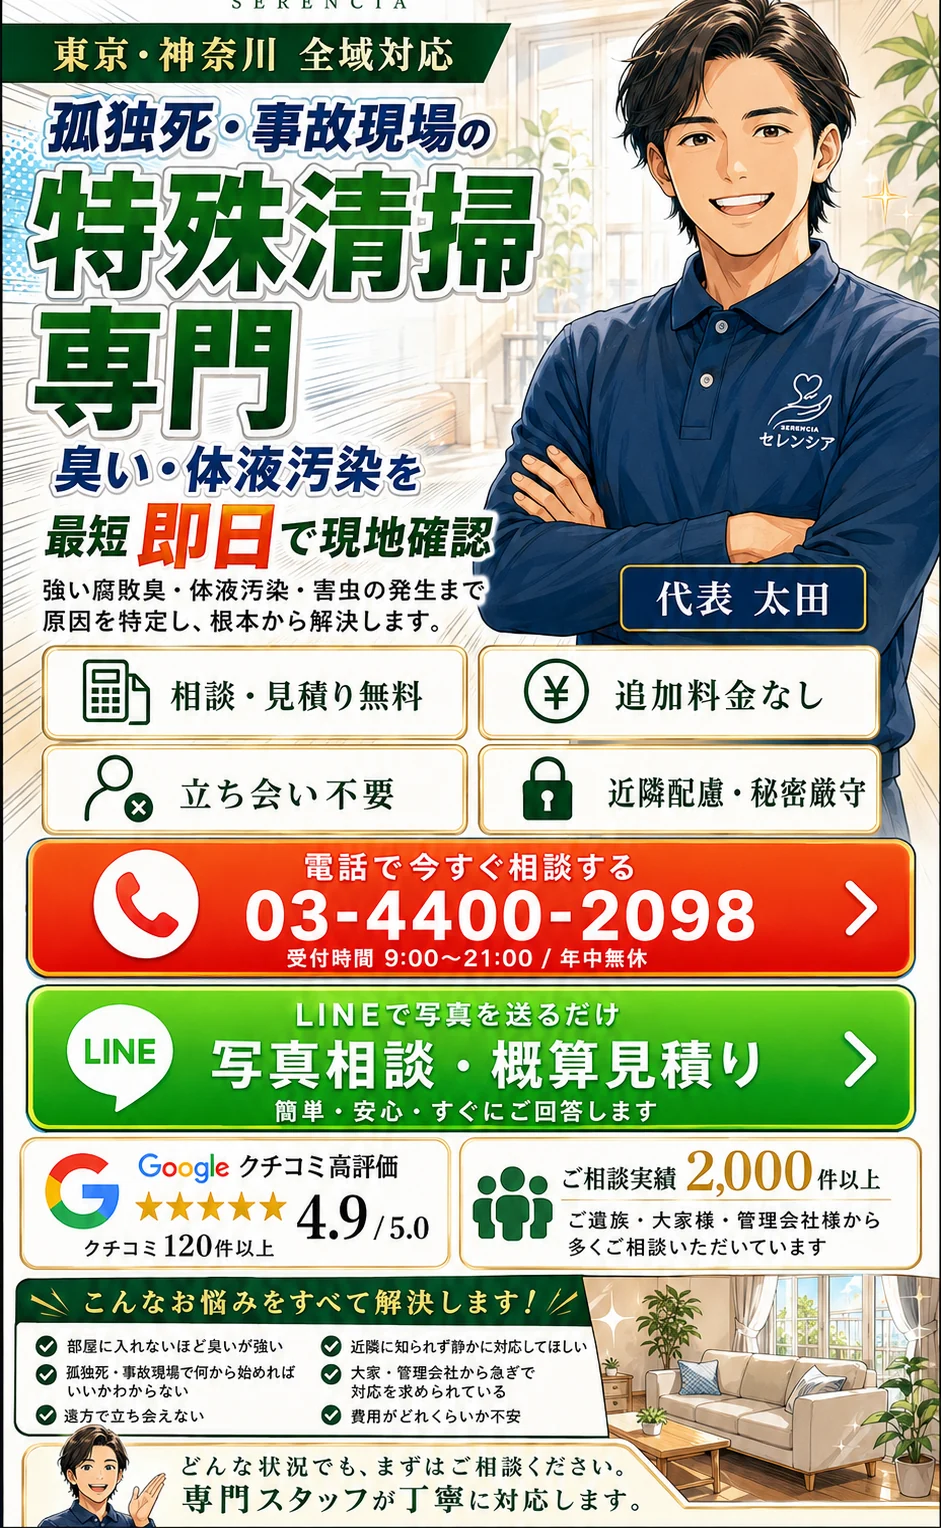
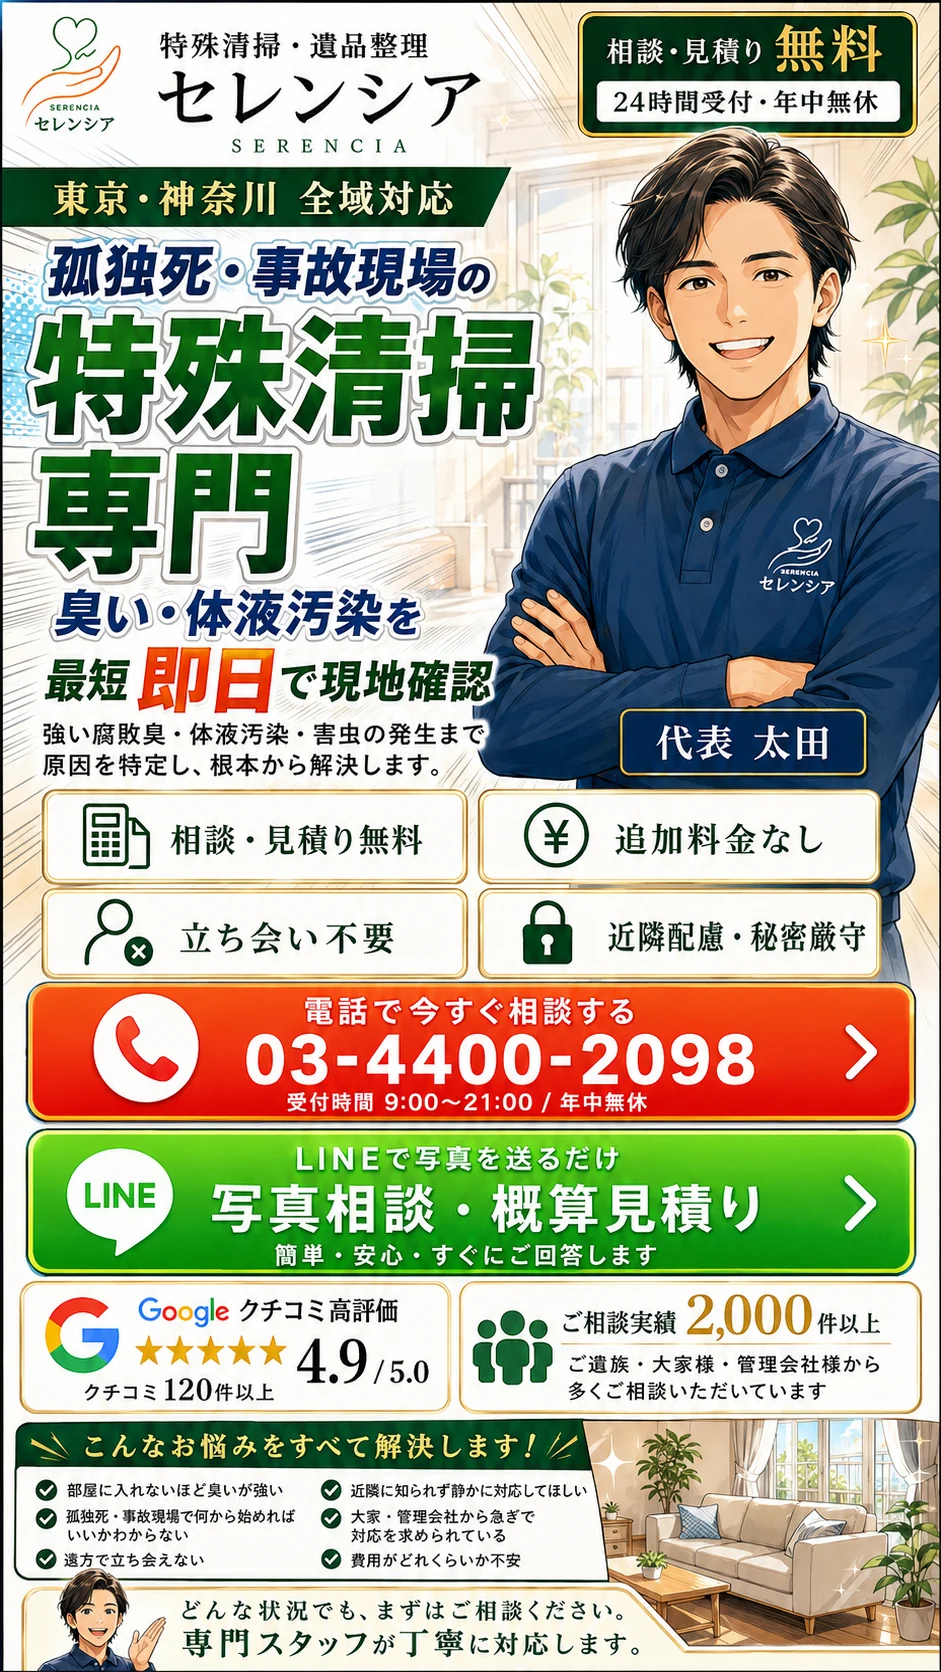
fix(fv): show full KV incl. its own header; hide sticky header at top; blend seam
- Use the entire KV (941x1672) so its own header (logo + 無料 badge) shows; the
  bottom worry summary + band were already restored. Recompute phone/LINE
  hotspots for the full image (verified aligned within ~1px).
- McyHeader becomes a hide-at-top / slide-in-on-scroll fixed bar (client) so the
  KV's own header serves at the top with no duplicate nav; the sticky nav + CTAs
  return once the user scrolls past the hero.
- Kill the KV->manga seam: warm-cream section bg on the FV + a taller
  cream->transparent blend and an opaque-white veil top on the worries section,
  bridging the warm KV into the cool section.

diff --git a/components/mcy/McyHeader.tsx b/components/mcy/McyHeader.tsx
@@ -1,7 +1,13 @@
+"use client";
+
+import { useEffect, useState } from "react";
+
 /**
  * まーしー式 No.33 ターコイズ不動産土地活用フォト — header.
- * White glass ground / navy brand / glossy turquoise & LINE-green CTAs / gold accents.
- * All text is live HTML per the skill rules (no baked button imagery).
+ * The KV (McyFv) carries its own header, so this bar stays hidden at the very
+ * top and slides in only after the user scrolls into the content, giving a
+ * persistent nav + CTA without duplicating the KV's header.
+ * White glass ground / navy brand / glossy turquoise & LINE-green CTAs.
  */
 
 export const PHONE_TEL = "tel:0344002098";
@@ -9,100 +15,118 @@ export const PHONE_DISPLAY = "03-4400-2098";
 export const LINE_URL = "https://page.line.me/782qjphg";
 
 export default function McyHeader() {
-  return (
-    <header className="sticky top-0 z-40 w-full bg-white/85 shadow-[0_2px_14px_rgba(18,58,92,0.12)] backdrop-blur-md">
-      <div className="flex items-center justify-between gap-[clamp(4px,1.2vw,8px)] px-[clamp(6px,1.8vw,12px)] py-[7px]">
-        {/* brand */}
-        <a href="/" aria-label="セレンシア" className="min-w-0 shrink leading-none">
-          <span className="block whitespace-nowrap text-[clamp(7px,1.9vw,9px)] font-bold tracking-[0.18em] text-mcy-turq-deep">
-            特殊清掃・遺品整理
-          </span>
-          <span className="mt-[3px] block whitespace-nowrap font-display text-[clamp(15px,4.2vw,21px)] font-bold tracking-[0.14em] text-mcy-navy">
-            セレンシア
-          </span>
-          <span
-            aria-hidden
-            className="mt-[3px] block h-[2px] w-[min(100%,76px)] rounded-full bg-gradient-to-r from-mcy-turq-bright via-mcy-turq to-mcy-gold"
-          />
-        </a>
+  const [shown, setShown] = useState(false);
 
-        {/* 無料 badge with gold laurel */}
-        <div className="flex shrink-0 items-center gap-[2px] leading-none">
-          <svg viewBox="0 0 30 60" className="h-[clamp(26px,6.6vw,38px)] w-auto drop-shadow-[0_1px_1px_rgba(165,129,58,0.35)]" fill="#c9a24f" aria-hidden="true">
-            <path d="M22 58C11 51 7 39 10 27 7 39 12 51 22 58Z" />
-            <path d="M10 43c3.6-.9 6.4.6 7.8 3.7-3.6.9-6.5-.4-7.8-3.7ZM9.6 34.5c3.4-.5 6.1 1.4 7 4.6-3.4.2-6.1-1.5-7-4.6ZM10.6 26c3 0 5.5 2 6.1 5.1-3-.2-5.4-2-6.1-5.1ZM12.5 18.5c2.7.7 4.5 2.8 4.5 5.8-2.7-.8-4.3-2.9-4.5-5.8ZM15.8 12c2.2 1.2 3.2 3.4 2.7 6.3-2.2-1.4-3-3.6-2.7-6.3Z" />
-          </svg>
-          <p className="text-center leading-none">
-            <span className="block text-[clamp(6px,1.5vw,8.5px)] font-bold text-mcy-navy">
-              相談・見積り
+  useEffect(() => {
+    const onScroll = () => setShown(window.scrollY > 200);
+    onScroll();
+    window.addEventListener("scroll", onScroll, { passive: true });
+    return () => window.removeEventListener("scroll", onScroll);
+  }, []);
+
+  return (
+    <header
+      aria-hidden={!shown}
+      className={`fixed inset-x-0 top-0 z-40 transition-transform duration-300 ease-out ${
+        shown ? "translate-y-0" : "pointer-events-none -translate-y-full"
+      }`}
+    >
+      <div className="mx-auto max-w-[520px] bg-white/90 shadow-[0_2px_14px_rgba(18,58,92,0.12)] backdrop-blur-md">
+        <div className="flex items-center justify-between gap-[clamp(4px,1.2vw,8px)] px-[clamp(6px,1.8vw,12px)] py-[7px]">
+          {/* brand */}
+          <a href="/" aria-label="セレンシア" className="min-w-0 shrink leading-none">
+            <span className="block whitespace-nowrap text-[clamp(7px,1.9vw,9px)] font-bold tracking-[0.18em] text-mcy-turq-deep">
+              特殊清掃・遺品整理
             </span>
-            <span className="my-[1px] block bg-gradient-to-b from-mcy-turq-bright to-mcy-turq-deep bg-clip-text text-[clamp(13px,3.4vw,20px)] font-black leading-none text-transparent">
-              無料
+            <span className="mt-[3px] block whitespace-nowrap font-display text-[clamp(15px,4.2vw,21px)] font-bold tracking-[0.14em] text-mcy-navy">
+              セレンシア
             </span>
-            <span className="block text-[clamp(5px,1.25vw,7.5px)] font-bold text-mcy-navy/80">
-              電話9〜21時／LINEは24時間
+            <span
+              aria-hidden
+              className="mt-[3px] block h-[2px] w-[min(100%,76px)] rounded-full bg-gradient-to-r from-mcy-turq-bright via-mcy-turq to-mcy-gold"
+            />
+          </a>
+
+          {/* 無料 badge with gold laurel */}
+          <div className="flex shrink-0 items-center gap-[2px] leading-none">
+            <svg viewBox="0 0 30 60" className="h-[clamp(26px,6.6vw,38px)] w-auto drop-shadow-[0_1px_1px_rgba(165,129,58,0.35)]" fill="#c9a24f" aria-hidden="true">
+              <path d="M22 58C11 51 7 39 10 27 7 39 12 51 22 58Z" />
+              <path d="M10 43c3.6-.9 6.4.6 7.8 3.7-3.6.9-6.5-.4-7.8-3.7ZM9.6 34.5c3.4-.5 6.1 1.4 7 4.6-3.4.2-6.1-1.5-7-4.6ZM10.6 26c3 0 5.5 2 6.1 5.1-3-.2-5.4-2-6.1-5.1ZM12.5 18.5c2.7.7 4.5 2.8 4.5 5.8-2.7-.8-4.3-2.9-4.5-5.8ZM15.8 12c2.2 1.2 3.2 3.4 2.7 6.3-2.2-1.4-3-3.6-2.7-6.3Z" />
+            </svg>
+            <p className="text-center leading-none">
+              <span className="block text-[clamp(6px,1.5vw,8.5px)] font-bold text-mcy-navy">
+                相談・見積り
+              </span>
+              <span className="my-[1px] block bg-gradient-to-b from-mcy-turq-bright to-mcy-turq-deep bg-clip-text text-[clamp(13px,3.4vw,20px)] font-black leading-none text-transparent">
+                無料
+              </span>
+              <span className="block text-[clamp(5px,1.25vw,7.5px)] font-bold text-mcy-navy/80">
+                電話9〜21時／LINEは24時間
+              </span>
+            </p>
+            <svg viewBox="0 0 30 60" className="h-[clamp(26px,6.6vw,38px)] w-auto -scale-x-100 drop-shadow-[0_1px_1px_rgba(165,129,58,0.35)]" fill="#c9a24f" aria-hidden="true">
+              <path d="M22 58C11 51 7 39 10 27 7 39 12 51 22 58Z" />
+              <path d="M10 43c3.6-.9 6.4.6 7.8 3.7-3.6.9-6.5-.4-7.8-3.7ZM9.6 34.5c3.4-.5 6.1 1.4 7 4.6-3.4.2-6.1-1.5-7-4.6ZM10.6 26c3 0 5.5 2 6.1 5.1-3-.2-5.4-2-6.1-5.1ZM12.5 18.5c2.7.7 4.5 2.8 4.5 5.8-2.7-.8-4.3-2.9-4.5-5.8ZM15.8 12c2.2 1.2 3.2 3.4 2.7 6.3-2.2-1.4-3-3.6-2.7-6.3Z" />
+            </svg>
+          </div>
+
+          {/* phone — glossy turquoise pill with gold outer hairline */}
+          <a
+            href={PHONE_TEL}
+            tabIndex={shown ? undefined : -1}
+            data-gtm="cta_tel_header"
+            className="relative flex min-h-[42px] shrink-0 flex-col items-center justify-center overflow-hidden rounded-[10px] bg-gradient-to-b from-mcy-turq-bright via-mcy-turq to-mcy-turq-deep px-[clamp(6px,1.7vw,12px)] py-[5px] text-white shadow-[0_0_0_1px_rgba(201,162,79,0.5),0_4px_10px_rgba(11,127,133,0.45)] ring-1 ring-inset ring-white/45 transition-[filter] active:brightness-90"
+          >
+            <span
+              aria-hidden
+              className="pointer-events-none absolute inset-x-[3px] top-[2px] h-[46%] rounded-[8px] bg-gradient-to-b from-white/45 via-white/15 to-white/0"
+            />
+            <span className="relative flex items-center gap-[3px] leading-none drop-shadow-[0_1px_1px_rgba(11,127,133,0.55)]">
+              <svg viewBox="0 0 24 24" className="h-[clamp(10px,2.6vw,14px)] w-[clamp(10px,2.6vw,14px)] shrink-0" fill="currentColor" aria-hidden="true">
+                <path d="M6.62 10.79c1.44 2.83 3.76 5.14 6.59 6.59l2.2-2.2c.27-.27.67-.36 1.02-.24 1.12.37 2.33.57 3.57.57.55 0 1 .45 1 1V20c0 .55-.45 1-1 1-9.39 0-17-7.61-17-17 0-.55.45-1 1-1h3.5c.55 0 1 .45 1 1 0 1.25.2 2.45.57 3.57.11.35.03.74-.25 1.02l-2.2 2.2z" />
+              </svg>
+              <span className="whitespace-nowrap text-[clamp(11px,2.9vw,17px)] font-black tracking-[-0.02em]">
+                {PHONE_DISPLAY}
+              </span>
             </span>
-          </p>
-          <svg viewBox="0 0 30 60" className="h-[clamp(26px,6.6vw,38px)] w-auto -scale-x-100 drop-shadow-[0_1px_1px_rgba(165,129,58,0.35)]" fill="#c9a24f" aria-hidden="true">
-            <path d="M22 58C11 51 7 39 10 27 7 39 12 51 22 58Z" />
-            <path d="M10 43c3.6-.9 6.4.6 7.8 3.7-3.6.9-6.5-.4-7.8-3.7ZM9.6 34.5c3.4-.5 6.1 1.4 7 4.6-3.4.2-6.1-1.5-7-4.6ZM10.6 26c3 0 5.5 2 6.1 5.1-3-.2-5.4-2-6.1-5.1ZM12.5 18.5c2.7.7 4.5 2.8 4.5 5.8-2.7-.8-4.3-2.9-4.5-5.8ZM15.8 12c2.2 1.2 3.2 3.4 2.7 6.3-2.2-1.4-3-3.6-2.7-6.3Z" />
-          </svg>
+            <span className="relative mt-[3px] whitespace-nowrap text-[clamp(5.5px,1.4vw,8px)] font-bold leading-none">
+              受付 9:00〜21:00 / 年中無休
+            </span>
+          </a>
+
+          {/* LINE — glossy green pill with gold outer hairline */}
+          <a
+            href={LINE_URL}
+            target="_blank"
+            rel="noopener noreferrer"
+            tabIndex={shown ? undefined : -1}
+            data-gtm="cta_line_header"
+            className="relative flex min-h-[42px] shrink-0 items-center gap-[clamp(2px,0.9vw,5px)] overflow-hidden rounded-[10px] bg-gradient-to-b from-[#4be06a] via-[#1ecb3a] to-[#06a32a] px-[clamp(4px,1.2vw,9px)] py-[5px] text-white shadow-[0_0_0_1px_rgba(201,162,79,0.5),0_4px_10px_rgba(6,163,42,0.4)] ring-1 ring-inset ring-white/45 transition-[filter] active:brightness-90"
+          >
+            <span
+              aria-hidden
+              className="pointer-events-none absolute inset-x-[3px] top-[2px] h-[46%] rounded-[8px] bg-gradient-to-b from-white/45 via-white/15 to-white/0"
+            />
+            <span className="relative grid h-[clamp(15px,3.9vw,22px)] w-[clamp(15px,3.9vw,22px)] shrink-0 place-items-center rounded-full bg-white text-[clamp(4.5px,1.2vw,6.5px)] font-black text-[#06b32c] shadow-[0_1px_2px_rgba(0,0,0,0.18)]">
+              LINE
+            </span>
+            <span className="relative leading-tight drop-shadow-[0_1px_1px_rgba(6,163,42,0.5)]">
+              <span className="block whitespace-nowrap text-[clamp(7px,1.8vw,10px)] font-bold">
+                LINEで
+              </span>
+              <span className="block whitespace-nowrap text-[clamp(9px,2.4vw,14px)] font-black">
+                写真相談する
+              </span>
+            </span>
+          </a>
         </div>
 
-        {/* phone — glossy turquoise pill with gold outer hairline */}
-        <a
-          href={PHONE_TEL}
-          data-gtm="cta_tel_header"
-          className="relative flex min-h-[42px] shrink-0 flex-col items-center justify-center overflow-hidden rounded-[10px] bg-gradient-to-b from-mcy-turq-bright via-mcy-turq to-mcy-turq-deep px-[clamp(6px,1.7vw,12px)] py-[5px] text-white shadow-[0_0_0_1px_rgba(201,162,79,0.5),0_4px_10px_rgba(11,127,133,0.45)] ring-1 ring-inset ring-white/45 transition-[filter] active:brightness-90"
-        >
-          <span
-            aria-hidden
-            className="pointer-events-none absolute inset-x-[3px] top-[2px] h-[46%] rounded-[8px] bg-gradient-to-b from-white/45 via-white/15 to-white/0"
-          />
-          <span className="relative flex items-center gap-[3px] leading-none drop-shadow-[0_1px_1px_rgba(11,127,133,0.55)]">
-            <svg viewBox="0 0 24 24" className="h-[clamp(10px,2.6vw,14px)] w-[clamp(10px,2.6vw,14px)] shrink-0" fill="currentColor" aria-hidden="true">
-              <path d="M6.62 10.79c1.44 2.83 3.76 5.14 6.59 6.59l2.2-2.2c.27-.27.67-.36 1.02-.24 1.12.37 2.33.57 3.57.57.55 0 1 .45 1 1V20c0 .55-.45 1-1 1-9.39 0-17-7.61-17-17 0-.55.45-1 1-1h3.5c.55 0 1 .45 1 1 0 1.25.2 2.45.57 3.57.11.35.03.74-.25 1.02l-2.2 2.2z" />
-            </svg>
-            <span className="whitespace-nowrap text-[clamp(11px,2.9vw,17px)] font-black tracking-[-0.02em]">
-              {PHONE_DISPLAY}
-            </span>
-          </span>
-          <span className="relative mt-[3px] whitespace-nowrap text-[clamp(5.5px,1.4vw,8px)] font-bold leading-none">
-            受付 9:00〜21:00 / 年中無休
-          </span>
-        </a>
-
-        {/* LINE — glossy green pill with gold outer hairline */}
-        <a
-          href={LINE_URL}
-          target="_blank"
-          rel="noopener noreferrer"
-          data-gtm="cta_line_header"
-          className="relative flex min-h-[42px] shrink-0 items-center gap-[clamp(2px,0.9vw,5px)] overflow-hidden rounded-[10px] bg-gradient-to-b from-[#4be06a] via-[#1ecb3a] to-[#06a32a] px-[clamp(4px,1.2vw,9px)] py-[5px] text-white shadow-[0_0_0_1px_rgba(201,162,79,0.5),0_4px_10px_rgba(6,163,42,0.4)] ring-1 ring-inset ring-white/45 transition-[filter] active:brightness-90"
-        >
-          <span
-            aria-hidden
-            className="pointer-events-none absolute inset-x-[3px] top-[2px] h-[46%] rounded-[8px] bg-gradient-to-b from-white/45 via-white/15 to-white/0"
-          />
-          <span className="relative grid h-[clamp(15px,3.9vw,22px)] w-[clamp(15px,3.9vw,22px)] shrink-0 place-items-center rounded-full bg-white text-[clamp(4.5px,1.2vw,6.5px)] font-black text-[#06b32c] shadow-[0_1px_2px_rgba(0,0,0,0.18)]">
-            LINE
-          </span>
-          <span className="relative leading-tight drop-shadow-[0_1px_1px_rgba(6,163,42,0.5)]">
-            <span className="block whitespace-nowrap text-[clamp(7px,1.8vw,10px)] font-bold">
-              LINEで
-            </span>
-            <span className="block whitespace-nowrap text-[clamp(9px,2.4vw,14px)] font-black">
-              写真相談する
-            </span>
-          </span>
-        </a>
+        {/* thin turquoise gradient keyline under the glass bar */}
+        <div
+          aria-hidden
+          className="h-[3px] w-full bg-gradient-to-r from-mcy-turq-bright via-mcy-turq-deep to-mcy-turq-bright"
+        />
       </div>
-
-      {/* thin turquoise gradient keyline under the glass bar */}
-      <div
-        aria-hidden
-        className="h-[3px] w-full bg-gradient-to-r from-mcy-turq-bright via-mcy-turq-deep to-mcy-turq-bright"
-      />
     </header>
   );
 }

diff --git a/components/mcy/McyFv.tsx b/components/mcy/McyFv.tsx
@@ -1,17 +1,18 @@
 import { LINE_URL, PHONE_TEL } from "./McyHeader";
 
 /**
- * First view — the approved KV design (kv.png) shown as a single image with the
- * red phone / green LINE buttons kept in the artwork. Transparent, percentage-
- * positioned hotspots sit exactly over those two buttons so they are tappable
- * and GTM-tracked (cta_tel_fv / cta_line_fv) while the design stays untouched.
- * KV header cropped (sticky McyHeader serves) and cut before the 悩み list (the
- * manga section handles worries). Baked copy kept crawlable via sr-only h1 + alt.
- * data-cta-section lets the sticky bar auto-hide while the FV is on screen.
+ * First view — the approved KV design (kv.png) shown as one full image (header to
+ * footer band) with the red phone / green LINE buttons kept in the artwork.
+ * Transparent, percentage-positioned hotspots sit exactly over those two buttons
+ * so they are tappable and GTM-tracked (cta_tel_fv / cta_line_fv) while the
+ * design stays untouched. The KV carries its own header, so the sticky McyHeader
+ * stays hidden at the top and only slides in on scroll (see McyHeader).
+ * Baked copy kept crawlable via sr-only h1 + alt. data-cta-section lets the
+ * bottom sticky bar auto-hide while the FV is on screen.
  */
 export default function McyFv() {
   return (
-    <section className="relative w-full overflow-hidden bg-white">
+    <section className="relative w-full overflow-hidden bg-[#efece4]">
       <h1 className="sr-only">
         孤独死・事故現場の特殊清掃専門 セレンシア｜東京・神奈川 全域対応・最短即日で現地確認
       </h1>
@@ -21,11 +22,11 @@ export default function McyFv() {
           src="/img/kv_fv_full.webp"
           alt="孤独死・事故現場の特殊清掃専門 セレンシア。東京・神奈川 全域対応。臭い・体液汚染を最短即日で現地確認。代表 太田が対応。相談・見積り無料／追加料金なし／立ち会い不要／近隣配慮・秘密厳守。Googleクチコミ4.9（120件以上）・ご相談実績2,000件以上。部屋に入れないほど臭いが強い、何から始めればいいか分からない、近隣に知られたくない等のお悩みをすべて解決します。"
           width={941}
-          height={1528}
+          height={1672}
           loading="eager"
           decoding="async"
           fetchPriority="high"
-          className="block w-full"
+          className="block w-full align-bottom"
         />
 
         {/* live tappable hotspot over the phone button in the design */}
@@ -33,7 +34,7 @@ export default function McyFv() {
           href={PHONE_TEL}
           data-gtm="cta_tel_fv"
           aria-label="電話で今すぐ相談する 03-4400-2098（受付 9:00〜21:00 年中無休）"
-          className="absolute left-[3.4%] top-[54.9%] h-[9.3%] w-[93.2%] rounded-[16px] transition-colors active:bg-black/10"
+          className="absolute left-[3.4%] top-[58.9%] h-[8.3%] w-[93.2%] rounded-[16px] transition-colors active:bg-black/10"
         />
         {/* live tappable hotspot over the LINE button in the design */}
         <a
@@ -42,7 +43,7 @@ export default function McyFv() {
           rel="noopener noreferrer"
           data-gtm="cta_line_fv"
           aria-label="LINEで写真を送って相談する（写真相談・概算見積り・24時間受付）"
-          className="absolute left-[3%] top-[64.3%] h-[11.5%] w-[94%] rounded-[16px] transition-colors active:bg-black/10"
+          className="absolute left-[3%] top-[67.4%] h-[10.5%] w-[94%] rounded-[16px] transition-colors active:bg-black/10"
         />
       </div>
     </section>

diff --git a/components/mcy/McyProblems.tsx b/components/mcy/McyProblems.tsx
@@ -95,10 +95,15 @@ export default function McyProblems() {
           aria-hidden="true"
           className="absolute inset-0 scale-110 bg-[url(/img/onayami_room.jpg)] bg-cover bg-center opacity-60 blur-[6px]"
         />
-        <div aria-hidden="true" className="absolute inset-0 bg-gradient-to-b from-white/92 via-white/86 to-mcy-sky/95" />
+        <div aria-hidden="true" className="absolute inset-0 bg-gradient-to-b from-white via-white/86 to-mcy-sky/95" />
         <div
           aria-hidden="true"
           className="absolute inset-0 bg-[radial-gradient(circle_at_85%_10%,rgba(43,199,205,0.16),transparent_55%)]"
+        />
+        {/* seamless blend from the KV image bottom (warm cream) into this section */}
+        <div
+          aria-hidden="true"
+          className="pointer-events-none absolute inset-x-0 top-0 h-[clamp(60px,16vw,96px)] bg-gradient-to-b from-[#efece4] via-[#efece4]/60 to-transparent"
         />
         <Sparkle className="left-[6%] top-[clamp(14px,4vw,26px)] text-[clamp(12px,3.4vw,17px)] text-mcy-turq/50" />
         <Sparkle className="right-[7%] top-[clamp(30px,9vw,54px)] text-[clamp(10px,3vw,15px)] text-mcy-gold/70" />
